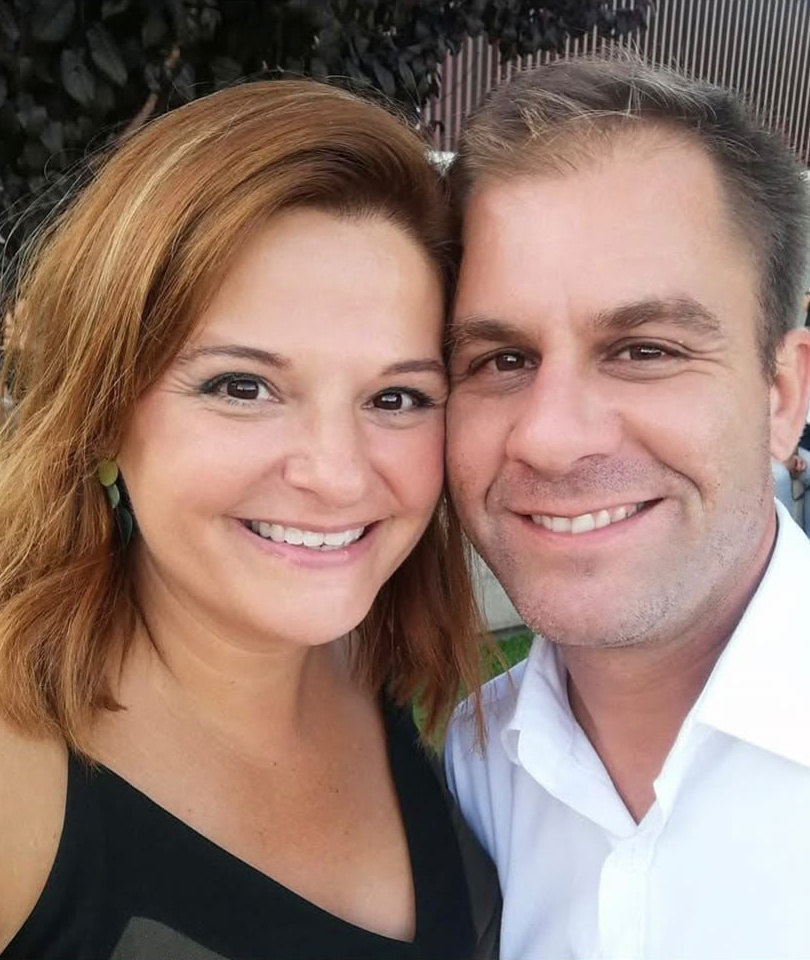
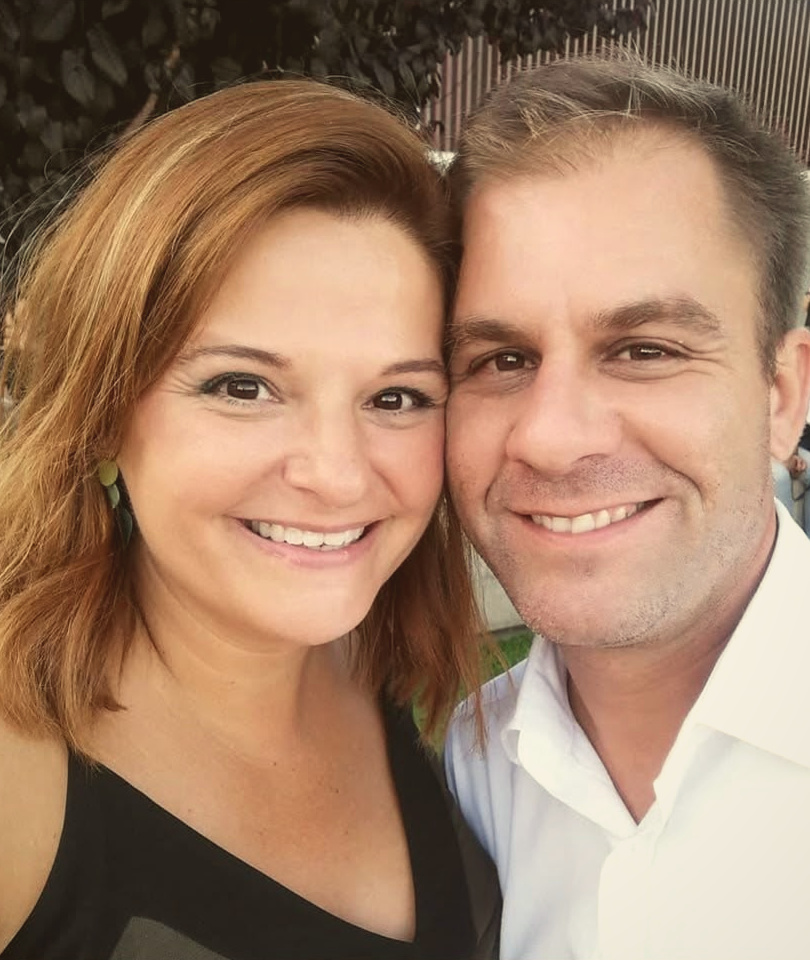
«Sobre nós»: a fotografia da Célia e do Sandro com um filtro suave
Pedido do Renato: mais quente (a madeira e o creme do site), pretos
levantados, um pouco menos de saturação e uma vinheta leve. Feito a partir do
original (em _cliente), com o mesmo corte.

diff --git a/docs/PLANO.md b/docs/PLANO.md
@@ -268,7 +268,8 @@ partes do site». Feito:
 - **As fotografias de duas páginas de texto** (o painel não edita as páginas, por isso a Célia não
   as conseguia trocar; 21:02–21:16): no **«Sobre nós»**, a Célia e o Sandro («Para os clientes nos
   conhecer», `sobre-nos-celia-sandro`, cortada sem as faixas pretas e sem as pessoas da festa nos
-  lados); na **«Personalização grátis»**, a colagem das gravações que ela já tinha posto na página
+  lados, e com um filtro suave pedido pelo Renato: mais quente, pretos levantados, um pouco menos de
+  saturação e uma vinheta leve); na **«Personalização grátis»**, a colagem das gravações que ela já tinha posto na página
   inicial (`inicio-c531317c`, com uma descrição a sério). O original está em
   `_cliente/whatsapp/2026-10-12/media/`.
 - **No Google (pedido da Célia às 21:21, «Sim por favor»):** a propriedade de domínio
